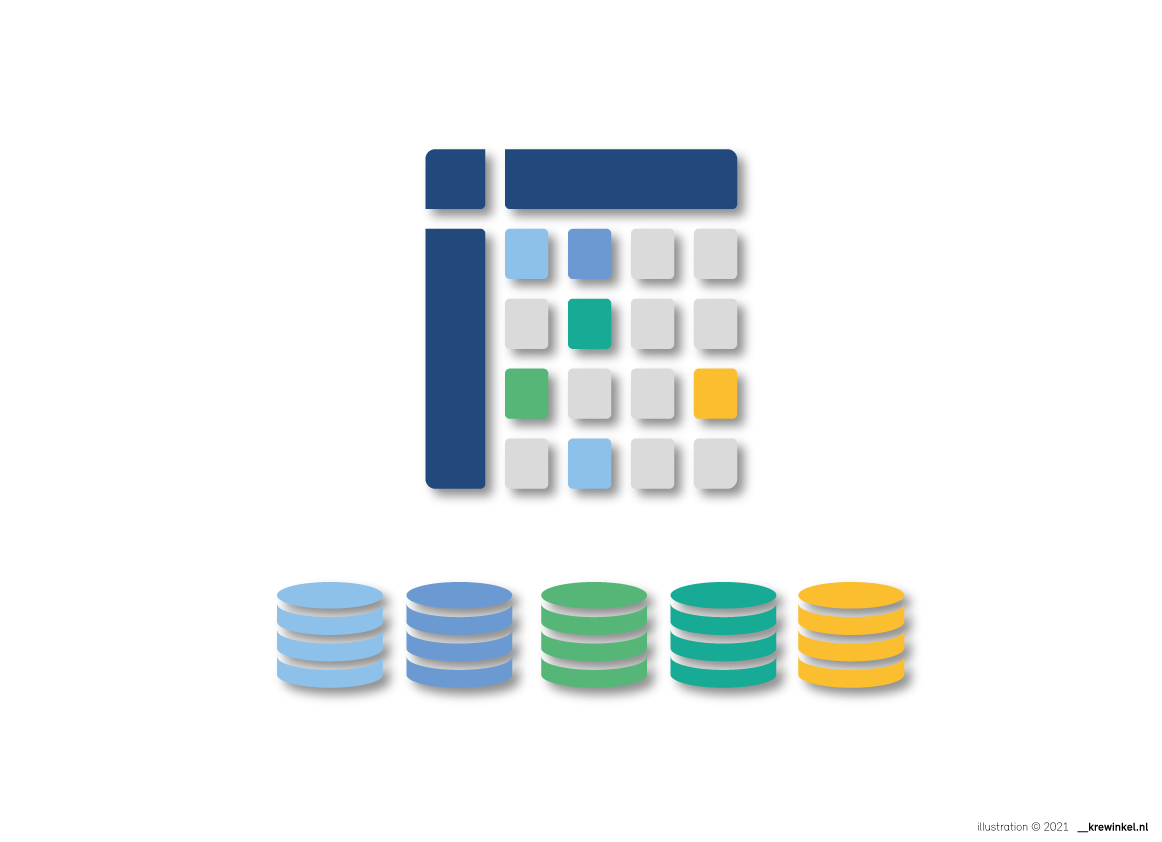
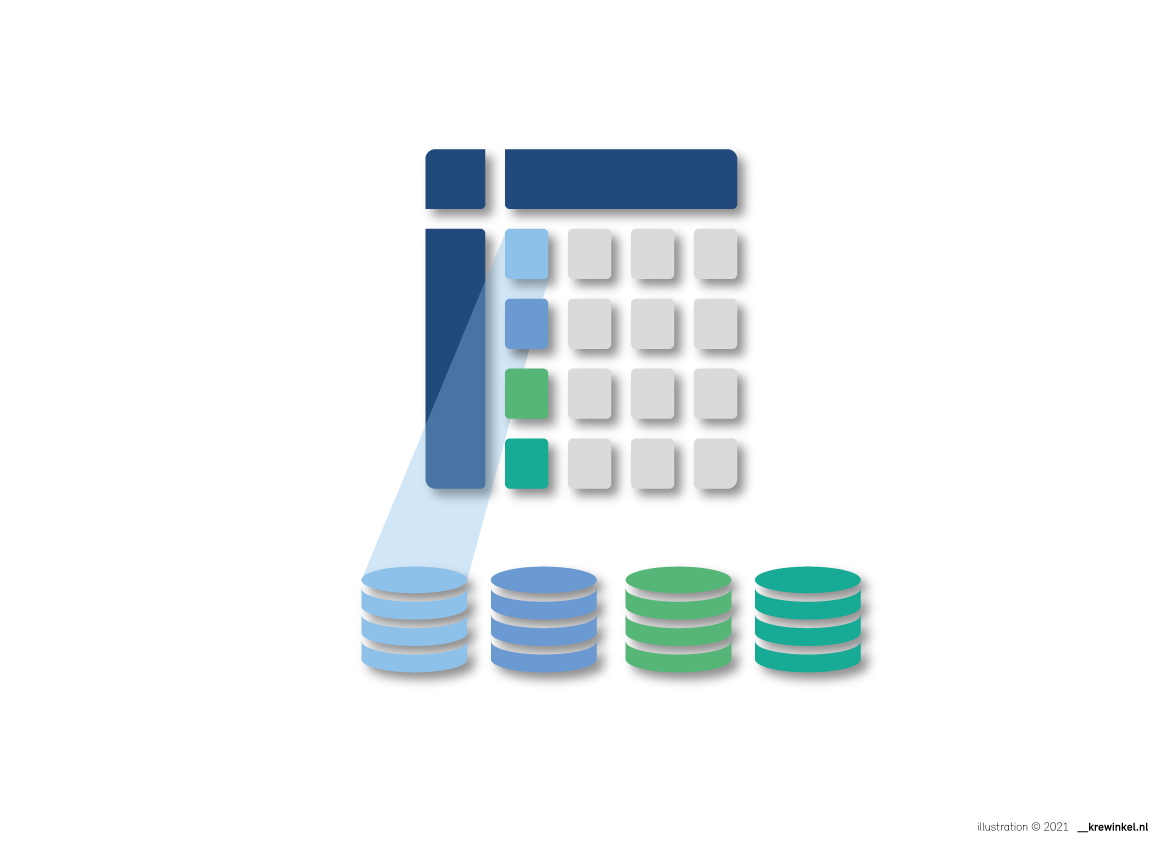
update partioning

Changed region(s): [[0.2169, 0.247, 0.8055, 0.8337], [0.5886, 0.4323, 0.6506, 0.4941]]

diff --git a/partitioning/README.md b/partitioning/README.md
@@ -1,5 +1,11 @@
 # Partition Tables
 
+Partitioning is the redistribution of data according to the content of the data. Partionining ensures that specific datasets stay in their range when queried so the number of rows queried is drastically reduced. 
+
+
+<img src="./partioning.png">
+
+
 On MySQL 5.x check if partitioning is enable by executing following SQL statement: 
 
 ````
@@ -200,9 +206,7 @@ CREATE TABLE ts (
 This is only feasible with extremely large tables.
 
 ## Adding tablespaces to partitions
-Partitions can be `striped` over several tablespaces. Usually this is done to increase read/write throughput. If diskstorage is a RAID-5 SAN or NAS system, this can increase the query performance of very large tables: 
-
-<img src="./partioning.png">
+Partitions can be `striped` over several tablespaces. Usually this is done to increase read/write throughput. If diskstorage is a RAID-5 SAN or NAS system, this can increase the query performance of very large tables.
 
 Consider the RANGE partition in the first example, striped over 4 tablespaces: 
 
